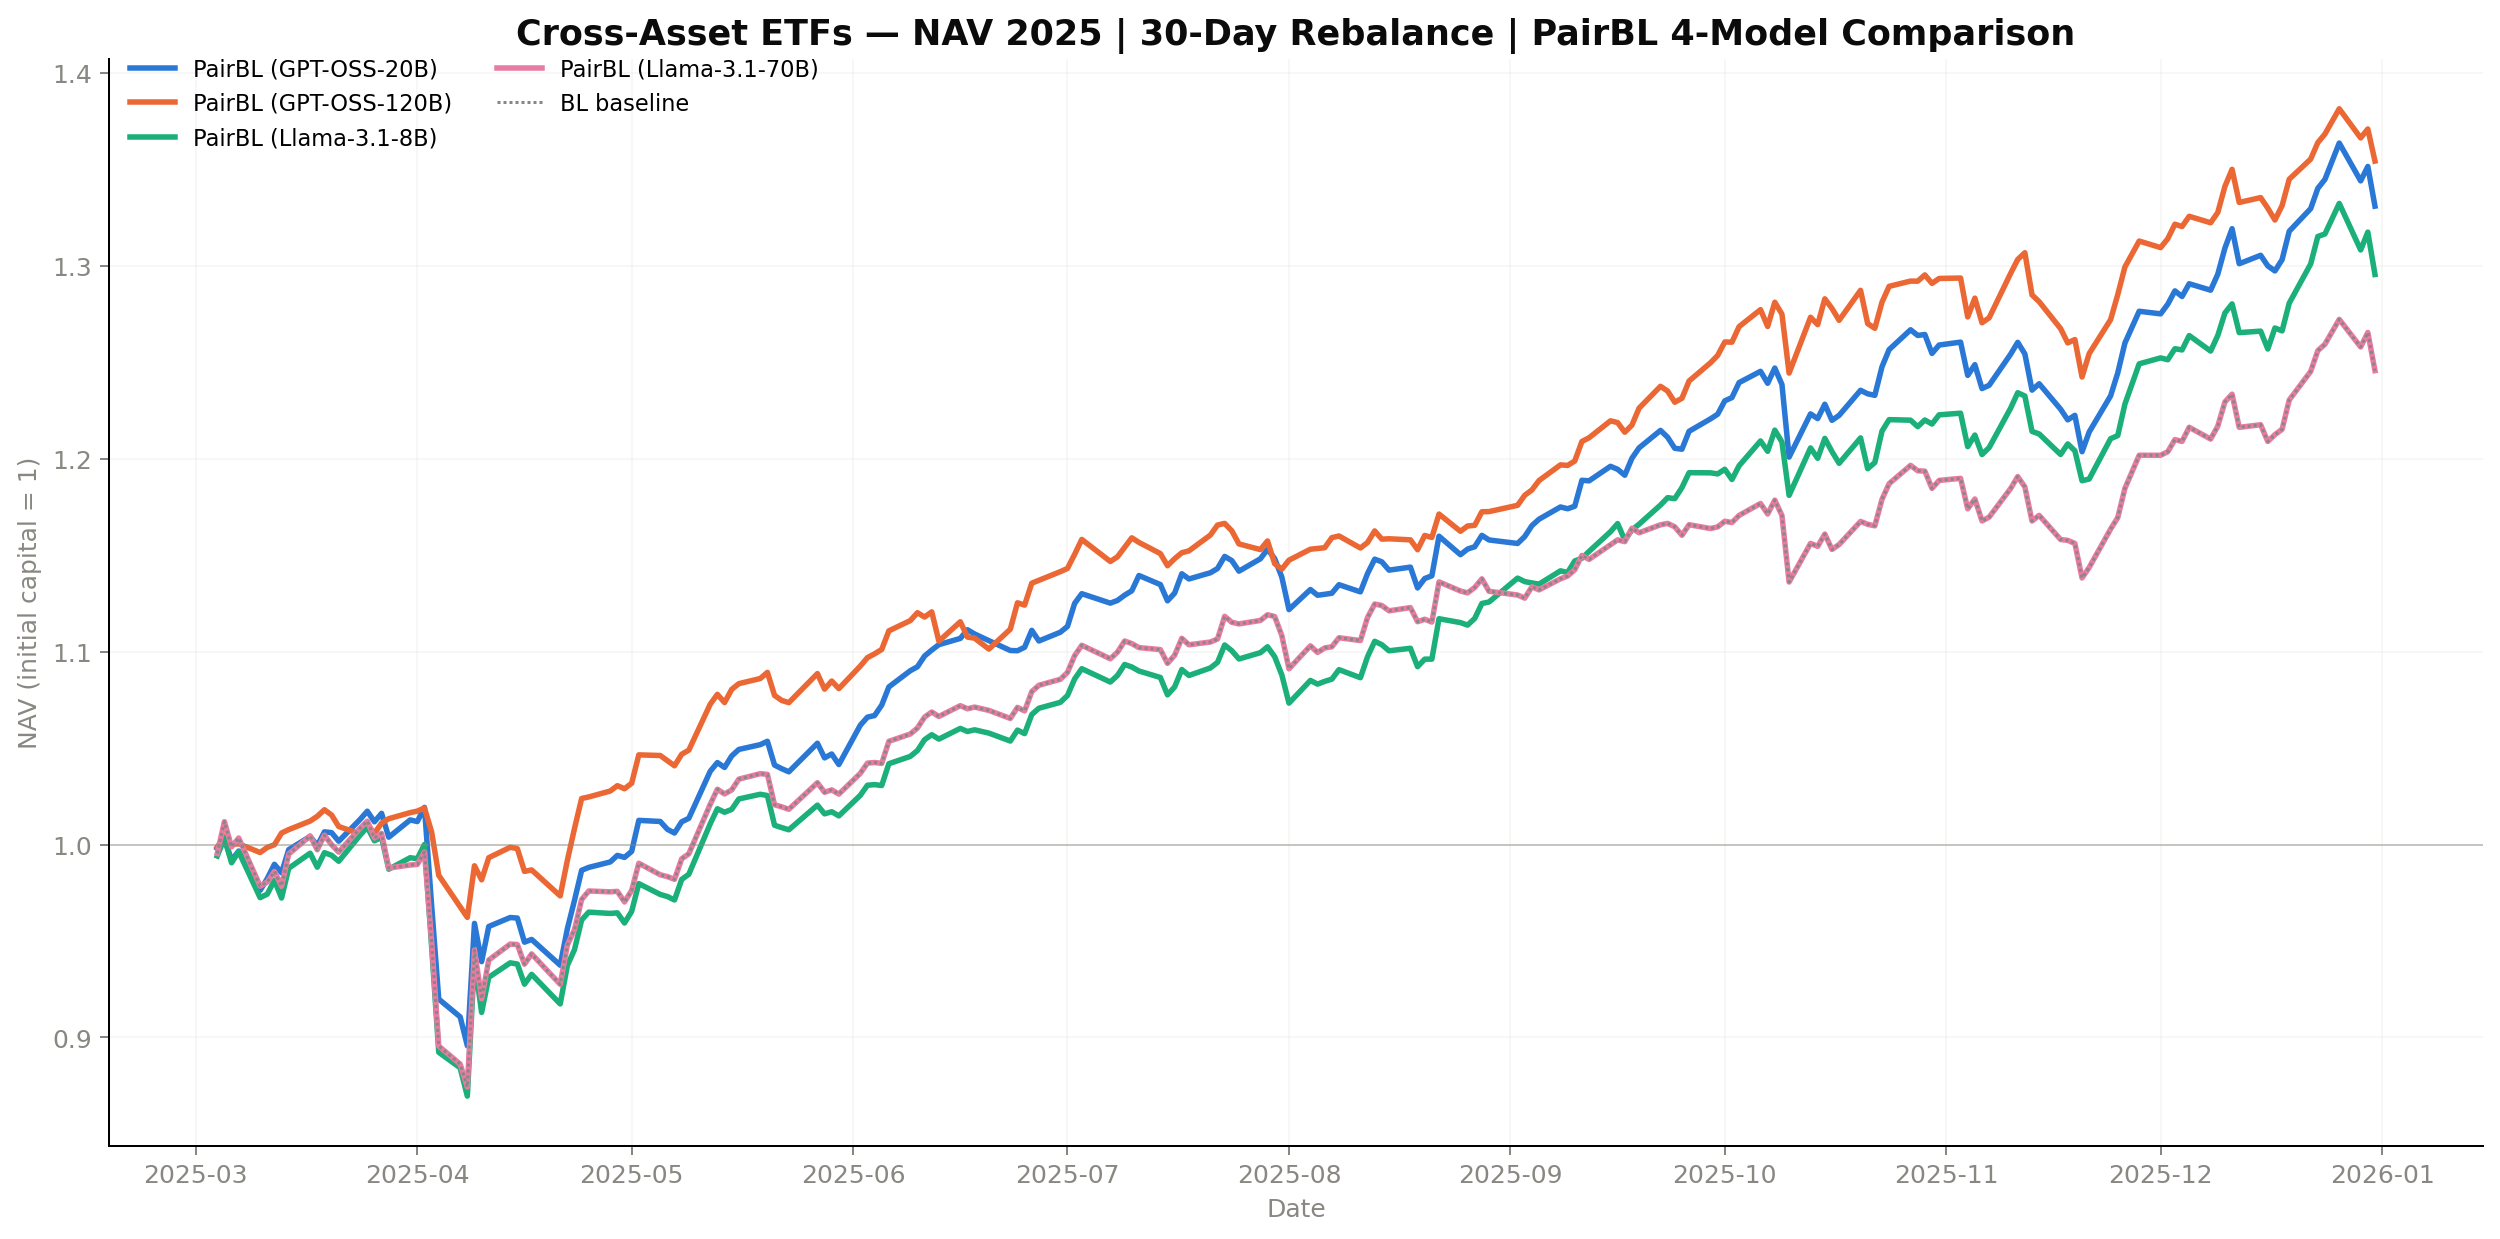
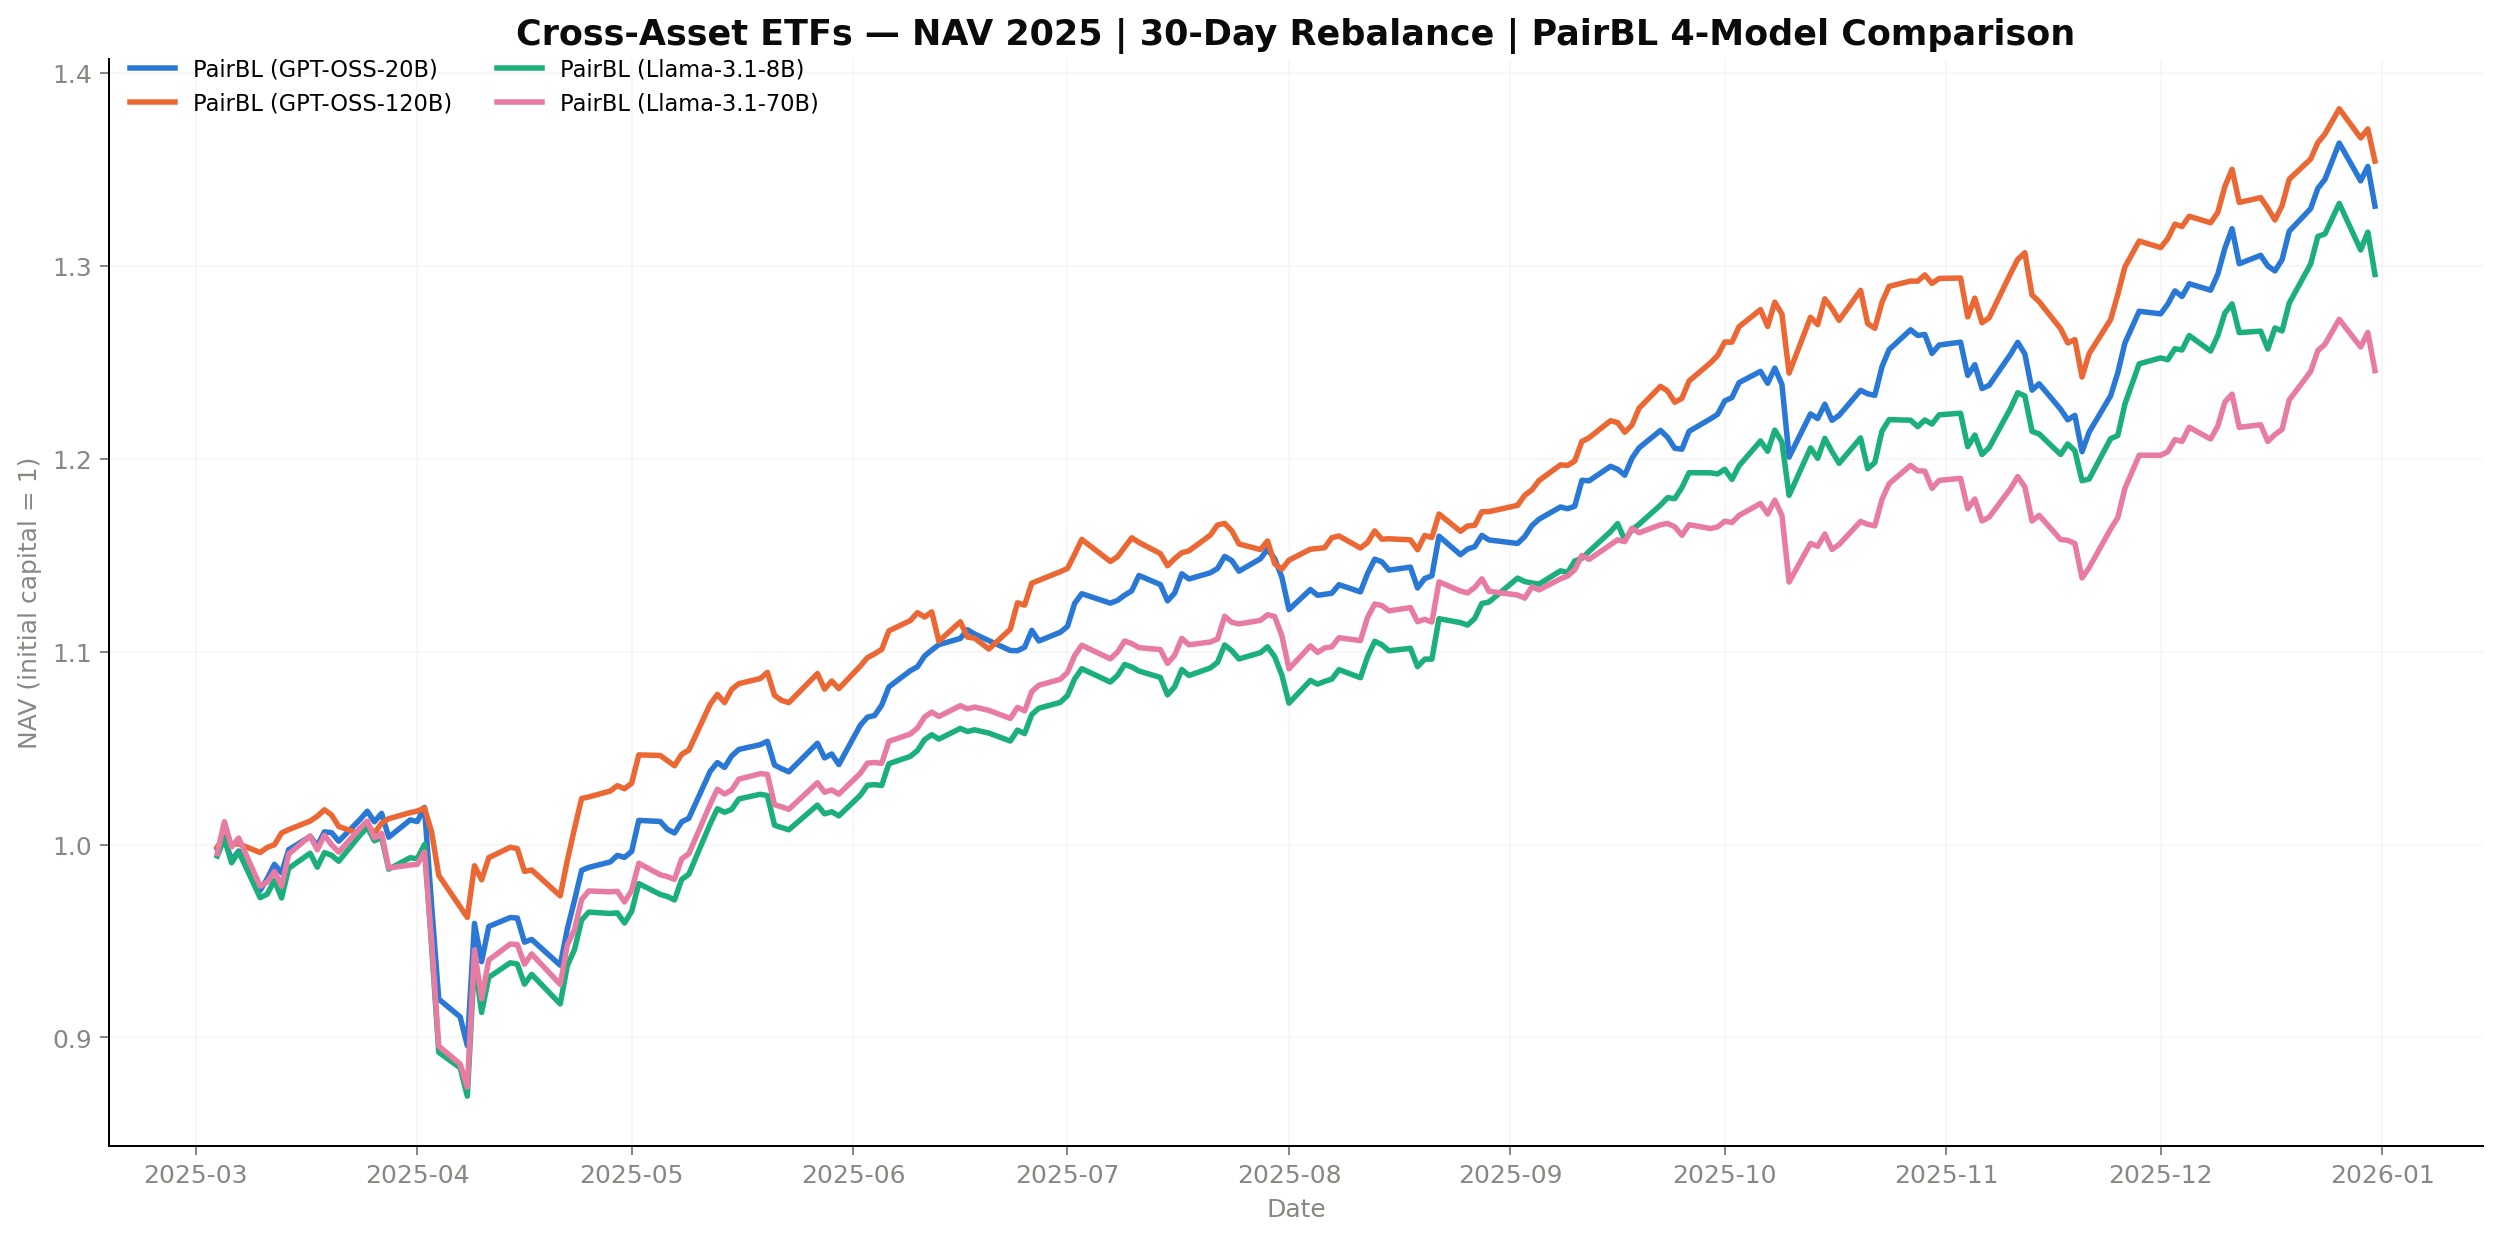
Show only the 4 PairBL lines in NAV comparison plots
In --no-llm-blm mode, drop the BL baseline line and the NAV=1.0 reference
line so each plot carries exactly the four PairBL paths. Update the root
README section wording to match.

diff --git a/plot_nav_4models.py b/plot_nav_4models.py
@@ -73,13 +73,14 @@ def plot_dataset_holding(
             ax.plot(daily["Date"], daily[llm_col], color=color, linewidth=1.4,
                     linestyle=(0, (4, 2)), label=f"LLM-BLM ({label})")
     # BL baseline is model-independent; plot from the first loaded frame if any.
-    if loaded:
+    if include_llm_blm and loaded:
         _, first = loaded[0]
         if "BL_NAV" in first.columns:
             ax.plot(first["Date"], first["BL_NAV"], color=BL_COLOR, linewidth=1.2,
                     linestyle=(0, (1, 1)), label="BL baseline")
 
-    ax.axhline(1.0, color=BL_COLOR, linewidth=0.7, alpha=0.5)
+    if include_llm_blm:
+        ax.axhline(1.0, color=BL_COLOR, linewidth=0.7, alpha=0.5)
     comparison = "PairBL & LLM-BLM" if include_llm_blm else "PairBL"
     ax.set_title(
         f"{DATASET_LABELS.get(dataset, dataset)} — NAV 2025 | "
@@ -136,7 +137,7 @@ def main() -> None:
     parser.add_argument("--datasets", nargs="+", default=DATASETS)
     parser.add_argument("--holding-periods", nargs="+", type=int, default=HOLDING_PERIODS)
     parser.add_argument("--no-llm-blm", action="store_true",
-                        help="Plot only PairBL (skip the dashed LLM-BLM lines).")
+                        help="Plot only the four PairBL lines (skip LLM-BLM and the BL baseline).")
     args = parser.parse_args()
     include_llm_blm = not args.no_llm_blm
     args.output_dir.mkdir(parents=True, exist_ok=True)

diff --git a/README.md b/README.md
@@ -30,7 +30,7 @@ dẫn đầu cumulative return PairBL ở US Technology 30 ngày (81.6%) và US 
 
 ## NAV 2025 — so sánh PairBL giữa 4 model (holding 30 ngày)
 
-Đường NAV PairBL (RelView-BL) của 4 model, cùng BL baseline (xám):
+Đường NAV PairBL (RelView-BL) của 4 model:
 GPT-OSS-20B (xanh dương), GPT-OSS-120B (cam), Llama-3.1-8B (xanh ngọc),
 Llama-3.1-70B (hồng). Dữ liệu tổng hợp tại `results/nav_4models_2025/`.
 
